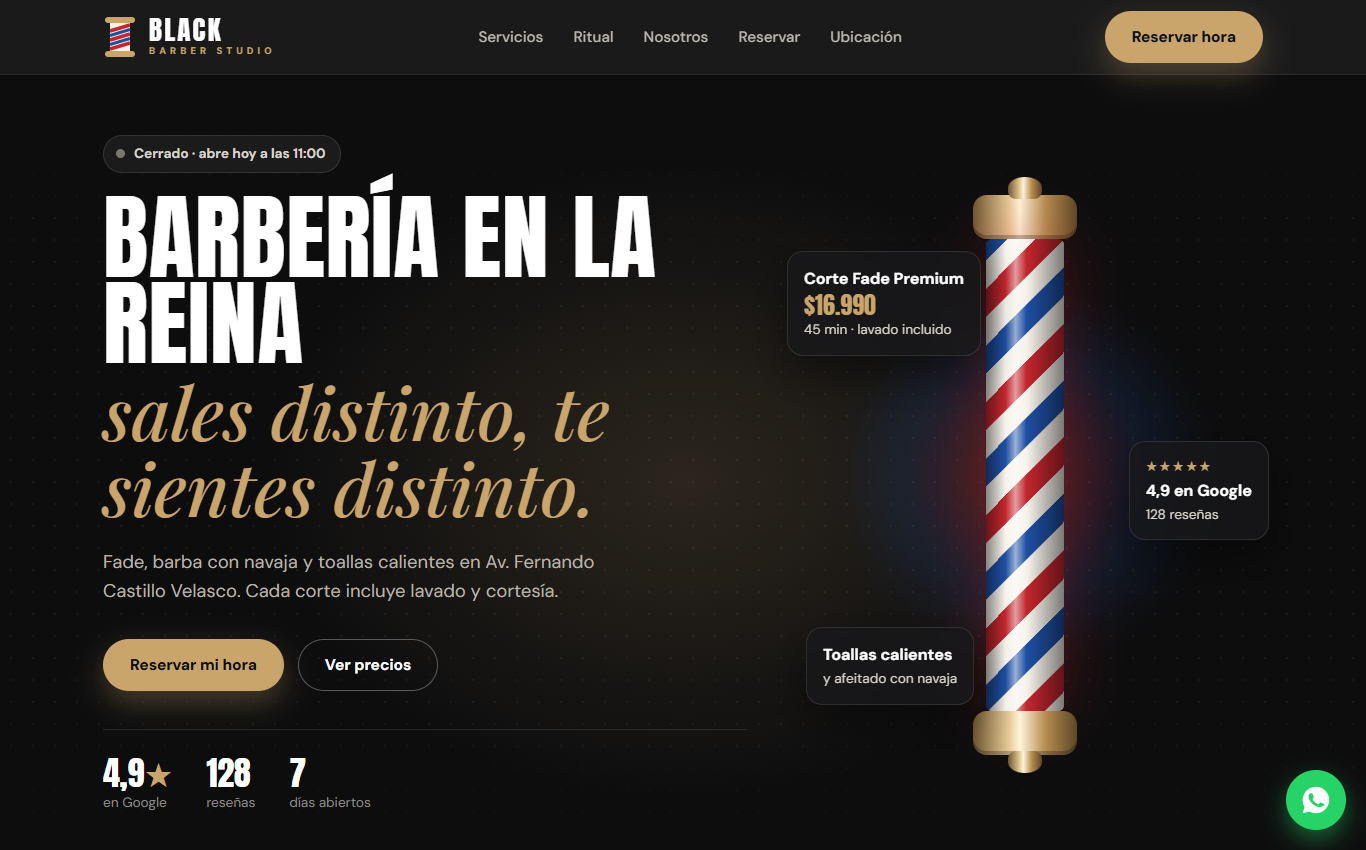
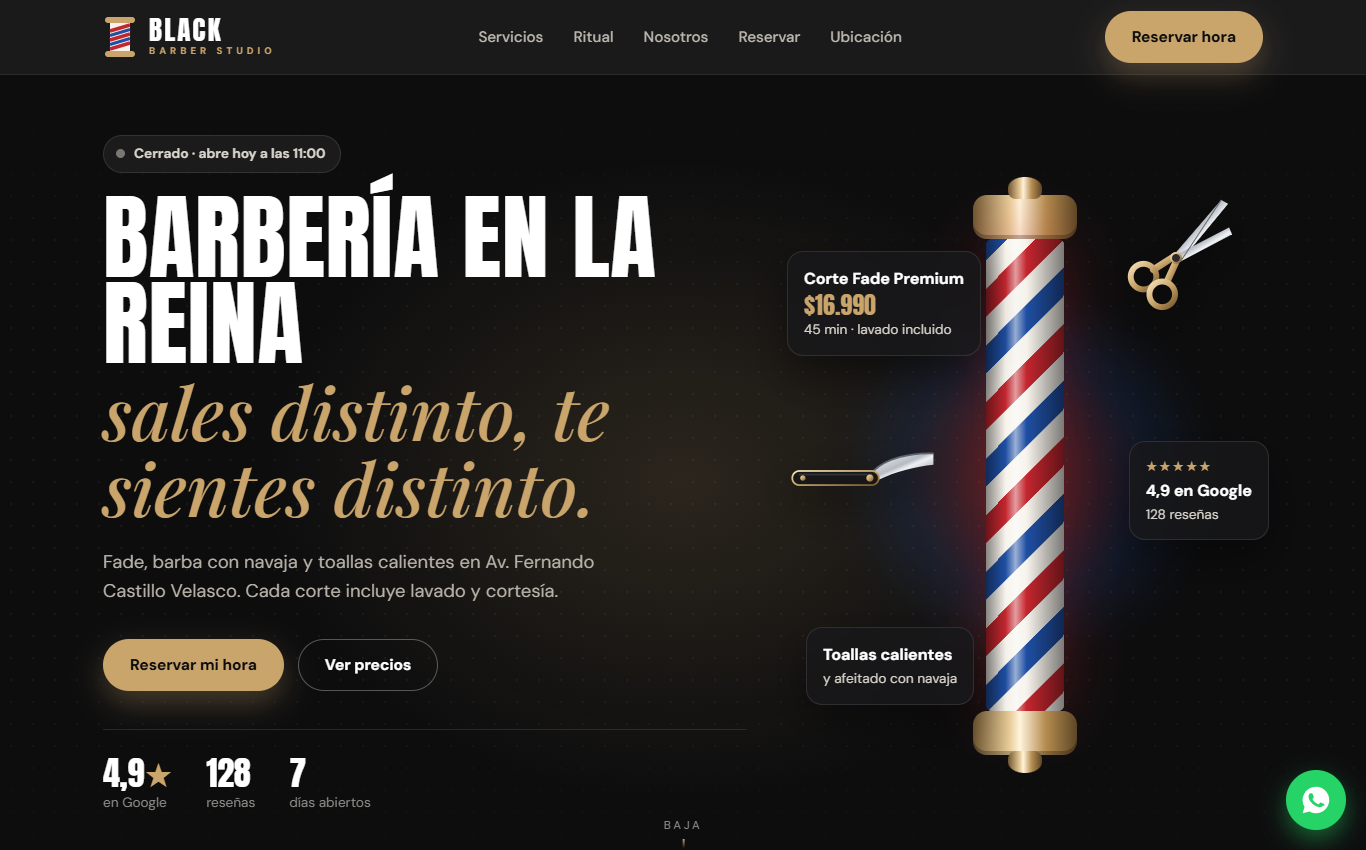
Hacer inmersiva la demo de Black Barber Studio
La portada suma tijeras y navaja flotantes que siguen al mouse, parallax
al bajar, barra de avance y contadores. El ritual de la navaja pasa a ser
una historia que avanza con el scroll, con un dial que cambia de escena.
Se agrega el buscador de servicio en dos preguntas y las tarjetas de la
carta se inclinan en 3D. Se actualizan las capturas del comparador.

diff --git a/demos/black-barber-studio/index.html b/demos/black-barber-studio/index.html
@@ -99,7 +99,7 @@
     .hero-datos { display: flex; gap: 34px; margin-top: 38px; padding-top: 26px; border-top: 1px solid rgba(255,255,255,.1); flex-wrap: wrap; }
     .hero-datos strong { display: block; font-family: "Anton", sans-serif; font-weight: 400; font-size: 2.1rem; line-height: 1; color: #fff; }
     .hero-datos strong b { color: var(--oro); font-weight: 400; }
-    .hero-datos span { color: var(--gris); font-size: .85rem; }
+    .hero-datos > div > span { color: var(--gris); font-size: .85rem; }
 
     /* Poste de barbería */
     .escena { position: relative; height: min(560px, 68vh); display: grid; place-items: center; }
@@ -121,6 +121,44 @@
     .ficha.f3 { bottom: 9%; left: 4%; animation-delay: -4s; }
     .ficha .estrellas { color: var(--oro); letter-spacing: 2px; }
     @keyframes flotar { 50% { transform: translateY(-10px); } }
+
+    /* Inmersivo: barra de avance, parallax y herramientas */
+    .progreso { position: absolute; left: 0; right: 0; bottom: -1px; height: 2px; background: linear-gradient(90deg, var(--oro), var(--oro-claro)); transform-origin: left; transform: scaleX(var(--p, 0)); }
+    .hero .hero-texto.aparece.visto { transform: translateY(calc(var(--sc, 0) * -80px)); opacity: calc(1 - var(--sc, 0) * 1.6); }
+    .escena-mov { position: absolute; inset: 0; display: grid; place-items: center; transform: translateY(calc(var(--sc, 0) * 90px)) scale(calc(1 - var(--sc, 0) * .15)); }
+    .herramienta { position: absolute; z-index: 1; transform: translate(calc((var(--mx) - .5) * var(--prof) * 1px), calc((var(--my) - .5) * var(--prof) * 1px + var(--sc, 0) * var(--prof) * -3px)); transition: transform .25s ease-out; }
+    .herramienta svg { animation: girar-suave 9s ease-in-out infinite; filter: drop-shadow(0 14px 22px rgba(0,0,0,.55)); }
+    .herramienta.tijera { --prof: 46; top: 0; right: 6%; width: 118px; }
+    .herramienta.navaja { --prof: -34; top: 44%; left: 0; width: 150px; }
+    .herramienta.navaja svg { animation-delay: -4.5s; }
+    @keyframes girar-suave { 50% { transform: translateY(-12px) rotate(7deg); } }
+    .scroll-abajo { position: absolute; left: 50%; bottom: 18px; z-index: 2; transform: translateX(-50%); color: var(--gris); font-size: .72rem; letter-spacing: .24em; text-transform: uppercase; display: grid; justify-items: center; gap: 4px; opacity: calc(1 - var(--sc, 0) * 4); }
+    .scroll-abajo::after { content: ""; width: 1.5px; height: 28px; background: linear-gradient(var(--oro), transparent); animation: bajar 1.6s ease-in-out infinite; }
+    @keyframes bajar { 0% { transform: scaleY(0); transform-origin: top; } 50% { transform: scaleY(1); transform-origin: top; } 51% { transform-origin: bottom; } 100% { transform: scaleY(0); transform-origin: bottom; } }
+
+    /* Buscador de servicio */
+    .buscador { background: #fff; }
+    .buscador-grid { display: grid; grid-template-columns: .8fr 1.2fr; gap: 50px; align-items: center; }
+    .buscador-grid > * { min-width: 0; }
+    .buscador .titulo-seccion { margin-bottom: 0; }
+    .buscador-caja { background: var(--crema); border-radius: 24px; padding: 32px; min-height: 320px; }
+    .preg { font-weight: 700; font-size: 1.15rem; margin-bottom: 14px; }
+    .opciones { display: flex; flex-wrap: wrap; gap: 10px; }
+    .opcion { border: 1.5px solid var(--crema-2); background: #fff; color: var(--texto); border-radius: 14px; padding: 14px 18px; font: 700 .97rem "DM Sans", sans-serif; cursor: pointer; transition: transform .15s, border-color .2s, background .2s, color .2s; }
+    .opcion:hover { border-color: var(--texto); transform: translateY(-2px); }
+    .opcion[aria-pressed="true"] { background: var(--negro); border-color: var(--negro); color: #fff; }
+    .pregunta + .pregunta, .resultado { margin-top: 26px; }
+    .pregunta:not([hidden]), .resultado:not([hidden]) { animation: entrar .45s ease backwards; }
+    .resultado { background: var(--negro); color: #fff; border-radius: 18px; padding: 26px; }
+    .resultado .sobre { color: var(--oro); margin-bottom: 8px; }
+    .resultado h3 { font-size: 2rem; margin-bottom: 10px; }
+    .res-datos { display: flex; gap: 14px; align-items: center; flex-wrap: wrap; margin-bottom: 10px; }
+    .res-datos strong { font-family: "Anton", sans-serif; font-weight: 400; font-size: 2rem; line-height: 1; color: var(--oro); }
+    .res-datos span { color: #bdb8b0; }
+    .res-datos .etiq { color: #1f7a45; }
+    .resultado p { color: #bdb8b0; margin-bottom: 18px; }
+    .res-botones { display: flex; gap: 18px; align-items: center; flex-wrap: wrap; }
+    .btn-texto { background: none; border: 0; color: #d9d4cb; font: 700 .92rem "DM Sans", sans-serif; text-decoration: underline; cursor: pointer; }
 
     /* Cinta */
     .cinta { background: var(--oro); color: var(--negro); overflow: hidden; padding: 16px 0; border-block: 1px solid #000; }
@@ -147,8 +185,8 @@
     .filtros button:hover { border-color: var(--texto); }
     .filtros button[aria-pressed="true"] { background: var(--negro); border-color: var(--negro); color: #fff; }
     .carta { display: grid; grid-template-columns: repeat(2, 1fr); gap: 14px; }
-    .item { background: #fff; border-radius: var(--radio); padding: 24px 24px 20px; display: grid; grid-template-columns: 1fr auto; gap: 6px 18px; border: 1px solid transparent; transition: border-color .2s, transform .2s, box-shadow .2s; animation: entrar .45s ease both; }
-    .item:hover { border-color: var(--oro); transform: translateY(-3px); box-shadow: 0 18px 36px rgba(27, 26, 25, .08); }
+    .item { background: #fff; border-radius: var(--radio); padding: 24px 24px 20px; display: grid; grid-template-columns: 1fr auto; gap: 6px 18px; border: 1px solid transparent; transition: border-color .2s, transform .2s, box-shadow .2s; animation: entrar .45s ease backwards; transform: perspective(900px) rotateX(var(--rx, 0deg)) rotateY(var(--ry, 0deg)) translateY(var(--ty, 0px)); }
+    .item:hover { border-color: var(--oro); --ty: -3px; box-shadow: 0 18px 36px rgba(27, 26, 25, .08); }
     @keyframes entrar { from { opacity: 0; transform: translateY(14px); } }
     .item h3 { font-family: "DM Sans", sans-serif; font-weight: 700; text-transform: none; font-size: 1.15rem; letter-spacing: 0; line-height: 1.3; }
     .item .precio { font-family: "Anton", sans-serif; font-size: 1.55rem; line-height: 1; text-align: right; }
@@ -162,6 +200,34 @@
     .agregar:hover::after { transform: translateX(4px); }
 
     /* Ritual */
+    .ritual-historia { display: grid; grid-template-columns: 1fr 1fr; gap: 60px; }
+    .ritual-historia > * { min-width: 0; }
+    .ritual-visual { position: sticky; top: 110px; height: min(470px, 72vh); display: grid; place-items: center; }
+    .dial { position: relative; width: min(430px, 100%); aspect-ratio: 1; border-radius: 50%; background: radial-gradient(circle, #1e1e22 0, #131315 61%, transparent 62%); display: grid; place-items: center; }
+    .dial::before { content: ""; position: absolute; inset: 14%; border-radius: 50%; background: radial-gradient(circle, rgba(201, 164, 107, .14), transparent 70%); }
+    .anillo { position: absolute; inset: 0; width: 100%; height: 100%; transform: rotate(-90deg); }
+    .anillo circle { fill: none; stroke-width: 3; }
+    .anillo-fondo { stroke: rgba(255,255,255,.08); }
+    .anillo-lleno { stroke: var(--oro); stroke-linecap: round; stroke-dasharray: 100; stroke-dashoffset: calc(100 - var(--avance, 0) * 100); }
+    .esc { position: absolute; inset: 20%; opacity: 0; transform: scale(.82) rotate(-8deg); transition: opacity .5s ease, transform .7s cubic-bezier(.2, .8, .2, 1); }
+    .esc.activa { opacity: 1; transform: none; }
+    .esc svg { width: 100%; height: 100%; overflow: visible; }
+    .trazo { fill: none; stroke: var(--oro); stroke-width: 3; stroke-linecap: round; stroke-linejoin: round; }
+    .humo { stroke-dasharray: 70 260; animation: humo 2.6s linear infinite; }
+    @keyframes humo { from { stroke-dashoffset: 80; opacity: 0; } 20% { opacity: 1; } to { stroke-dashoffset: -200; opacity: 0; } }
+    .gota { fill: rgba(201, 164, 107, .25); animation: gota 2.2s ease-in infinite; }
+    @keyframes gota { 0% { transform: translateY(-10px); opacity: 0; } 30% { opacity: 1; } 100% { transform: translateY(26px); opacity: 0; } }
+    .hoja { fill: rgba(232, 204, 152, .14); transform-box: view-box; transform-origin: 132px 124px; }
+    .esc.activa .hoja { animation: abrir 1s cubic-bezier(.2, .8, .2, 1) both; }
+    @keyframes abrir { from { transform: rotate(70deg); } }
+    .dial-num { position: absolute; bottom: 8%; font-family: "Anton", sans-serif; color: var(--oro); letter-spacing: .14em; font-size: 1rem; }
+    .ritual-pasos { list-style: none; }
+    .ritual-pasos .paso { min-height: 50vh; display: flex; flex-direction: column; justify-content: center; background: none; border: 0; border-left: 1px solid rgba(255,255,255,.1); border-radius: 0; padding: 0 0 0 34px; opacity: .28; transition: opacity .45s, border-color .45s; overflow: visible; }
+    .ritual-pasos .paso::before { content: none; }
+    .ritual-pasos .paso.activo { opacity: 1; border-color: var(--oro); }
+    .ritual-pasos .num { font-family: "Anton", sans-serif; font-size: 3.6rem; line-height: 1; color: transparent; -webkit-text-stroke: 1px rgba(201, 164, 107, .75); margin-bottom: 14px; }
+    .ritual-pasos .paso h3 { font-size: 2.3rem; margin-bottom: 10px; }
+    .ritual-pasos .paso p { font-size: 1.06rem; max-width: 420px; }
     .ritual-grid { display: grid; grid-template-columns: repeat(4, 1fr); gap: 16px; counter-reset: paso; }
     .paso { position: relative; background: var(--carbon); border: 1px solid rgba(255,255,255,.07); border-radius: var(--radio); padding: 30px 24px 26px; overflow: hidden; }
     .paso::before { counter-increment: paso; content: "0" counter(paso); font-family: "Anton", sans-serif; font-size: 3.4rem; line-height: 1; color: transparent; -webkit-text-stroke: 1px rgba(201, 164, 107, .6); display: block; margin-bottom: 18px; }
@@ -298,14 +364,20 @@
     .aparece.visto { opacity: 1; transform: none; }
     @media (prefers-reduced-motion: reduce) {
       .aparece { opacity: 1; transform: none; transition: none; }
-      .tubo, .halo, .ficha, .cinta-pista, .vapor i, .pulso, .estado i, .item { animation: none !important; }
+      .tubo, .halo, .ficha, .cinta-pista, .vapor i, .pulso, .estado i, .item, .herramienta svg, .humo, .gota, .hoja, .scroll-abajo::after { animation: none !important; }
       html { scroll-behavior: auto; }
     }
     .captura .aviso-demo, .captura .btn-comparar { display: none; }
-    .captura .tubo, .captura .halo, .captura .ficha, .captura .cinta-pista, .captura .item { animation: none; }
+    .captura .tubo, .captura .halo, .captura .ficha, .captura .cinta-pista, .captura .item, .captura .herramienta svg { animation: none; }
 
     @media (max-width: 1000px) {
-      .hero-grid, .sello-grid, .reservar-grid, .ubicacion-grid { grid-template-columns: 1fr; }
+      .hero-grid, .sello-grid, .reservar-grid, .ubicacion-grid, .buscador-grid, .ritual-historia { grid-template-columns: 1fr; }
+      .buscador-grid { gap: 30px; }
+      .scroll-abajo { display: none; }
+      .ritual-historia { gap: 0; }
+      .ritual-visual { top: 74px; height: 250px; z-index: 2; background: linear-gradient(var(--negro) 85%, transparent); margin-inline: -16px; }
+      .dial { width: 230px; }
+      .ritual-pasos .paso { min-height: 44vh; padding-left: 24px; }
       .hero-grid { min-height: 0; padding: 50px 0 40px; gap: 10px; }
       .escena { height: 380px; }
       .ritual-grid { grid-template-columns: 1fr 1fr; }
@@ -325,7 +397,7 @@
       .hero-botones .btn { flex: 1 1 100%; }
       .hero-datos { gap: 22px; flex-wrap: nowrap; justify-content: space-between; }
       .hero-datos strong { font-size: 1.7rem; }
-      .hero-datos span { font-size: .78rem; }
+      .hero-datos > div > span { font-size: .78rem; }
       .escena { height: 320px; margin-top: 34px; }
       .poste { width: 80px; }
       .tapa { width: 80px; height: 36px; }
@@ -335,6 +407,12 @@
       .ficha .precio { font-size: 1.2rem; }
       .ficha.f2 { right: 0; }
       .ritual-grid, .valores, .mejoras { grid-template-columns: 1fr; }
+      .buscador-caja { padding: 24px 18px; }
+      .opcion { flex: 1 1 100%; text-align: left; }
+      .herramienta.tijera { width: 82px; right: 2%; }
+      .herramienta.navaja { width: 110px; top: 42%; left: 0; }
+      .ritual-pasos .paso h3 { font-size: 1.9rem; }
+      .ritual-pasos .num { font-size: 2.8rem; }
       .item { padding: 20px 18px 16px; }
       .reserva { padding: 22px 18px; }
       .ubicacion-texto { padding: 32px 22px; }
@@ -368,12 +446,13 @@
       <a href="#reservar" class="btn btn-oro">Reservar hora</a>
       <button class="hamburguesa" id="hamburguesa" aria-label="Abrir menú" aria-expanded="false" aria-controls="menu"><span></span><span></span><span></span></button>
     </div>
+    <div class="progreso" id="progreso"></div>
   </header>
 
   <main>
     <section class="hero" id="inicio">
       <div class="contenedor hero-grid">
-        <div class="aparece">
+        <div class="hero-texto aparece">
           <span class="estado" id="estado"><i></i><span>Lun a sáb 11:00 – 20:00</span></span>
           <h1>Barbería en La Reina<em class="fino">sales distinto, te sientes distinto.</em></h1>
           <p class="lead">Fade, barba con navaja y toallas calientes en Av. Fernando Castillo Velasco. Cada corte incluye lavado y cortesía.</p>
@@ -382,19 +461,25 @@
             <a href="#servicios" class="btn btn-borde">Ver precios</a>
           </div>
           <div class="hero-datos">
-            <div><strong>4,9<b>★</b></strong><span>en Google</span></div>
-            <div><strong>128</strong><span>reseñas</span></div>
-            <div><strong>7</strong><span>días abiertos</span></div>
+            <div><strong><span data-contar="4.9" data-dec="1">4,9</span><b>★</b></strong><span>en Google</span></div>
+            <div><strong data-contar="128">128</strong><span>reseñas</span></div>
+            <div><strong data-contar="7">7</strong><span>días abiertos</span></div>
           </div>
         </div>
         <div class="escena aparece" aria-hidden="true">
-          <div class="halo"></div>
-          <div class="poste"><div class="tapa arriba"></div><div class="tubo"></div><div class="tapa abajo"></div></div>
+          <svg width="0" height="0" style="position:absolute" aria-hidden="true"><defs><linearGradient id="g-acero" x1="0" y1="0" x2="1" y2="1"><stop offset="0" stop-color="#fbfbfc"/><stop offset=".45" stop-color="#b6bbc3"/><stop offset=".55" stop-color="#eef0f3"/><stop offset="1" stop-color="#767c85"/></linearGradient><linearGradient id="g-oro" x1="0" y1="0" x2="1" y2="1"><stop offset="0" stop-color="#f6e2b8"/><stop offset=".5" stop-color="#c9a46b"/><stop offset="1" stop-color="#77592a"/></linearGradient></defs></svg>
+          <div class="escena-mov">
+            <div class="halo"></div>
+            <div class="poste"><div class="tapa arriba"></div><div class="tubo"></div><div class="tapa abajo"></div></div>
+          </div>
+          <span class="herramienta tijera"><svg viewBox="0 0 120 120"><path d="M57 63 L107 5 L114 9 L66 67 Z" fill="url(#g-acero)"/><path d="M57 63 L115 33 L118 40 L63 69 Z" fill="url(#g-acero)"/><path d="M107 5 L66 67" stroke="#5f646c" stroke-width="1"/><path d="M60 62 L38 76" stroke="url(#g-oro)" stroke-width="7" stroke-linecap="round"/><path d="M62 66 L52 88" stroke="url(#g-oro)" stroke-width="7" stroke-linecap="round"/><circle cx="28" cy="83" r="13" fill="none" stroke="url(#g-oro)" stroke-width="6"/><circle cx="47" cy="101" r="13" fill="none" stroke="url(#g-oro)" stroke-width="6"/><circle cx="61" cy="64" r="5" fill="#2a2a2e" stroke="url(#g-oro)" stroke-width="2"/></svg></span>
+          <span class="herramienta navaja"><svg viewBox="0 0 170 70"><path d="M98 34 C112 20 140 13 166 14 L166 27 C146 29 122 35 104 44 Z" fill="url(#g-acero)"/><path d="M98 34 C112 20 140 13 166 14" fill="none" stroke="#5f646c" stroke-width="2"/><rect x="6" y="34" width="98" height="16" rx="8" fill="#17171a" stroke="url(#g-oro)" stroke-width="2"/><path d="M14 38 H96" stroke="#fff" stroke-opacity=".12" stroke-width="2" stroke-linecap="round"/><circle cx="18" cy="42" r="3" fill="url(#g-oro)"/><circle cx="94" cy="42" r="4" fill="url(#g-oro)"/></svg></span>
           <div class="ficha f1"><strong>Corte Fade Premium</strong><span class="precio">$16.990</span>45 min · lavado incluido</div>
           <div class="ficha f2"><span class="estrellas">★★★★★</span><strong>4,9 en Google</strong>128 reseñas</div>
           <div class="ficha f3"><strong>Toallas calientes</strong>y afeitado con navaja</div>
         </div>
       </div>
+      <span class="scroll-abajo" aria-hidden="true">Baja</span>
     </section>
 
     <div class="cinta" aria-hidden="true">
@@ -424,6 +509,34 @@
       </div>
     </section>
 
+    <section class="buscador" id="tu-servicio">
+      <div class="contenedor buscador-grid">
+        <div class="aparece">
+          <div class="titulo-seccion">
+            <span class="sobre">¿No sabes qué pedir?</span>
+            <h2>Encuentra tu <em class="fino">servicio</em></h2>
+            <p>Dos preguntas y te decimos cuál es, cuánto dura y cuánto cuesta.</p>
+          </div>
+        </div>
+        <div class="buscador-caja aparece" aria-live="polite">
+          <div class="pregunta">
+            <p class="preg">1. ¿Qué te quieres hacer?</p>
+            <div class="opciones" id="opciones1">
+              <button type="button" class="opcion" data-v="corte" aria-pressed="false">Corte de pelo</button>
+              <button type="button" class="opcion" data-v="barba" aria-pressed="false">Solo barba</button>
+              <button type="button" class="opcion" data-v="ambos" aria-pressed="false">Corte y barba</button>
+              <button type="button" class="opcion" data-v="facial" aria-pressed="false">Corte y limpieza facial</button>
+            </div>
+          </div>
+          <div class="pregunta" id="pregunta2" hidden>
+            <p class="preg" id="preg2"></p>
+            <div class="opciones" id="opciones2"></div>
+          </div>
+          <div class="resultado" id="resultado" hidden></div>
+        </div>
+      </div>
+    </section>
+
     <section class="oscuro" id="ritual">
       <div class="contenedor">
         <div class="titulo-seccion aparece">
@@ -431,11 +544,23 @@
           <h2>El ritual <em class="fino">de la navaja</em></h2>
           <p>Treinta minutos para ti. Así es el afeitado clásico que hacemos en el estudio.</p>
         </div>
-        <div class="ritual-grid">
-          <article class="paso aparece"><span class="vapor" aria-hidden="true"><i></i><i></i><i></i></span><h3>Vapor</h3><p>Abrimos los poros con vapor para que la barba se ablande.</p></article>
-          <article class="paso aparece"><h3>Toallas calientes</h3><p>Relajan la piel y preparan cada pelo para la navaja.</p></article>
-          <article class="paso aparece"><h3>Navaja clásica</h3><p>Afeitado completo y al ras, con el método de siempre.</p></article>
-          <article class="paso aparece"><h3>Loción y masaje</h3><p>Cerramos con productos que calman la piel y un masaje.</p></article>
+        <div class="ritual-historia" id="ritual-historia">
+          <div class="ritual-visual" aria-hidden="true">
+            <div class="dial">
+              <svg class="anillo" viewBox="0 0 300 300"><circle cx="150" cy="150" r="146" class="anillo-fondo"/><circle cx="150" cy="150" r="146" class="anillo-lleno" pathLength="100"/></svg>
+              <div class="esc activa"><svg viewBox="0 0 200 200"><g class="trazo"><path d="M40 118 H160 C160 150 134 168 100 168 C66 168 40 150 40 118 Z"/><path d="M28 118 H172"/><path class="humo" d="M78 104 C66 88 90 78 78 60 C70 48 82 38 78 26"/><path class="humo" d="M100 104 C88 86 112 76 100 56 C92 44 104 34 100 20" style="animation-delay:-.85s"/><path class="humo" d="M122 104 C110 88 134 78 122 60 C114 48 126 38 122 26" style="animation-delay:-1.7s"/></g></svg></div>
+              <div class="esc"><svg viewBox="0 0 200 200"><g class="trazo"><g transform="translate(70 140)"><circle r="27"/><circle r="16"/><path d="M-6 0 A6 6 0 1 1 0 6"/><path d="M0 27 H34"/></g><g transform="translate(130 140)"><circle r="27"/><circle r="16"/><path d="M-6 0 A6 6 0 1 1 0 6"/><path d="M0 27 H34"/></g><g transform="translate(100 92)"><circle r="27"/><circle r="16"/><path d="M-6 0 A6 6 0 1 1 0 6"/></g><path class="humo" d="M88 58 C80 46 96 40 88 26" style="animation-delay:-.4s"/><path class="humo" d="M112 58 C104 46 120 40 112 26" style="animation-delay:-1.5s"/></g></svg></div>
+              <div class="esc"><svg viewBox="0 0 200 200"><g class="trazo"><rect x="18" y="114" width="116" height="22" rx="11"/><circle cx="32" cy="125" r="3"/><circle cx="122" cy="125" r="4"/><g class="hoja"><path d="M126 118 C138 92 160 72 188 66 L188 84 C168 90 150 106 138 128 Z"/><path d="M134 110 C146 92 164 78 188 72" opacity=".5"/></g></g></svg></div>
+              <div class="esc"><svg viewBox="0 0 200 200"><g class="trazo"><path d="M84 62 H116 V78 L126 90 V164 A8 8 0 0 1 118 172 H82 A8 8 0 0 1 74 164 V90 L84 78 Z"/><path d="M90 62 V48 H110 V62"/><path d="M74 120 H126"/><path d="M86 134 H114" opacity=".5"/><path class="gota" d="M152 84 C152 84 142 96 142 102 A10 10 0 0 0 162 102 C162 96 152 84 152 84 Z"/><path class="gota" d="M162 124 C162 124 155 132 155 136 A7 7 0 0 0 169 136 C169 132 162 124 162 124 Z" style="animation-delay:-1.1s"/></g></svg></div>
+              <span class="dial-num" id="dial-num">01 / 04</span>
+            </div>
+          </div>
+          <ol class="ritual-pasos">
+            <li class="paso activo"><span class="num">01</span><h3>Vapor</h3><p>Abrimos los poros con vapor para que la barba se ablande y la navaja corra suave.</p></li>
+            <li class="paso"><span class="num">02</span><h3>Toallas calientes</h3><p>Relajan la piel y preparan cada pelo. Es el momento para desconectarse.</p></li>
+            <li class="paso"><span class="num">03</span><h3>Navaja clásica</h3><p>Afeitado completo y al ras, con el método de siempre y el pulso de quien sabe.</p></li>
+            <li class="paso"><span class="num">04</span><h3>Loción y masaje</h3><p>Cerramos con productos que calman la piel y un masaje. Sales nuevo.</p></li>
+          </ol>
         </div>
         <div class="ritual-pie aparece">
           <p><strong>Afeitado al ras Premium · $17.990.</strong> Con corte incluido, el Corte + Afeitado inglés queda en $28.990.</p>
@@ -461,7 +586,7 @@
           </div>
         </div>
         <div class="resenas aparece">
-          <div class="nota"><strong>4,9</strong><div class="estrellas" aria-hidden="true">★★★★★</div><span>128 reseñas en Google</span></div>
+          <div class="nota"><strong data-contar="4.9" data-dec="1">4,9</strong><div class="estrellas" aria-hidden="true">★★★★★</div><span>128 reseñas en Google</span></div>
           <div>
             <h3>Aquí van sus reseñas reales de Google</h3>
             <p>En la versión final mostramos las opiniones verdaderas de sus clientes, con nombre y fecha. Un 4,9 con 128 reseñas convence más que cualquier texto.</p>
@@ -678,6 +803,82 @@
     }));
     pintarCarta("todos");
 
+    // Tarjetas que se inclinan siguiendo el mouse
+    if (!sinMovimiento && matchMedia("(pointer: fine)").matches) {
+      carta.addEventListener("pointermove", e => {
+        const it = e.target.closest(".item"); if (!it) return;
+        const r = it.getBoundingClientRect();
+        it.style.setProperty("--rx", ((.5 - (e.clientY - r.top) / r.height) * 7).toFixed(2) + "deg");
+        it.style.setProperty("--ry", (((e.clientX - r.left) / r.width - .5) * 7).toFixed(2) + "deg");
+      });
+      carta.addEventListener("pointerout", e => {
+        const it = e.target.closest(".item");
+        if (it && !it.contains(e.relatedTarget)) { it.style.removeProperty("--rx"); it.style.removeProperty("--ry"); }
+      });
+    }
+
+    // ===== Contadores que suben (4,9 · 128 · 7) =====
+    const formatear = (v, dec) => dec ? v.toFixed(dec).replace(".", ",") : String(Math.round(v));
+    const contar = el => {
+      const fin = parseFloat(el.dataset.contar), dec = Number(el.dataset.dec || 0);
+      if (sinMovimiento) { el.textContent = formatear(fin, dec); return; }
+      const inicio = performance.now(), dura = 1500;
+      const paso = ahora => {
+        const t = Math.min((ahora - inicio) / dura, 1);
+        el.textContent = formatear(fin * (1 - Math.pow(1 - t, 3)), dec);
+        if (t < 1) requestAnimationFrame(paso);
+      };
+      requestAnimationFrame(paso);
+    };
+    const numeros = document.querySelectorAll("[data-contar]");
+    if ("IntersectionObserver" in window && !sinMovimiento) {
+      const obsNum = new IntersectionObserver(entradas => entradas.forEach(e => {
+        if (e.isIntersecting) { contar(e.target); obsNum.unobserve(e.target); }
+      }), { threshold: .6 });
+      numeros.forEach(n => { n.textContent = formatear(0, Number(n.dataset.dec || 0)); obsNum.observe(n); });
+    }
+
+    // ===== Encuentra tu servicio =====
+    const ARBOL = {
+      corte: { pregunta: "2. ¿Para quién es?", opciones: [["Adulto, con degradado o clásico", "fade"], ["Niño de hasta 10 años", "classic"], ["Adulto mayor", "classic"]] },
+      barba: { pregunta: "2. ¿Cómo la quieres?", opciones: [["Rápida, solo con máquina", "barba"], ["Perfilada con navaja", "perfilado"], ["Afeitado al ras, con ritual", "afeitado"]] },
+      ambos: { pregunta: "2. ¿Y la barba?", opciones: [["Con máquina", "corte-barba"], ["Perfilada con navaja", "corte-perfilado"], ["Al ras, el ritual completo", "corte-ingles"], ["Soy adulto mayor", "mayor"]] },
+      facial: { pregunta: "2. ¿Qué limpieza buscas?", opciones: [["Superficial, para puntos negros", "facial"], ["Profunda, con exfoliación", "facial-pro"]] }
+    };
+    const opciones1 = document.getElementById("opciones1");
+    const pregunta2 = document.getElementById("pregunta2");
+    const opciones2 = document.getElementById("opciones2");
+    const resultado = document.getElementById("resultado");
+    const marcar = (caja, boton) => caja.querySelectorAll(".opcion").forEach(b => b.setAttribute("aria-pressed", b === boton));
+    opciones1.addEventListener("click", e => {
+      const b = e.target.closest(".opcion"); if (!b) return;
+      marcar(opciones1, b);
+      const rama = ARBOL[b.dataset.v];
+      document.getElementById("preg2").textContent = rama.pregunta;
+      opciones2.innerHTML = rama.opciones.map(([texto, id]) => `<button type="button" class="opcion" data-id="${id}" aria-pressed="false">${texto}</button>`).join("");
+      resultado.hidden = true;
+      pregunta2.hidden = false;
+    });
+    opciones2.addEventListener("click", e => {
+      const b = e.target.closest(".opcion"); if (!b) return;
+      marcar(opciones2, b);
+      const s = porId[b.dataset.id];
+      resultado.innerHTML = `
+        <span class="sobre">Tu servicio</span>
+        <h3>${s.nombre}</h3>
+        <div class="res-datos"><strong>${pesos(s.precio)}</strong><span>${duracion(s.min)}</span>${s.separado ? `<span class="etiq ahorro">Ahorras ${pesos(s.separado - s.precio)}</span>` : ""}</div>
+        <p>${s.desc}</p>
+        <div class="res-botones"><button type="button" class="btn btn-oro" data-elegir="${s.id}">Reservar este servicio</button><button type="button" class="btn-texto" id="reiniciar">Empezar de nuevo</button></div>`;
+      resultado.hidden = false;
+      resultado.style.animation = "none"; void resultado.offsetWidth; resultado.style.animation = "";
+    });
+    resultado.addEventListener("click", e => {
+      if (e.target.id !== "reiniciar") return;
+      marcar(opciones1, null);
+      pregunta2.hidden = true; resultado.hidden = true;
+      opciones1.querySelector(".opcion").focus();
+    });
+
     // ===== Horario y estado "abierto ahora" (hora de Chile) =====
     const HORARIO = { 0: [12, 18], 1: [11, 20], 2: [11, 20], 3: [11, 20], 4: [11, 20], 5: [11, 20], 6: [11, 20] };
     const DIAS = ["Domingo", "Lunes", "Martes", "Miércoles", "Jueves", "Viernes", "Sábado"];
@@ -795,6 +996,35 @@
       });
       hero.addEventListener("pointerleave", () => { hero.style.setProperty("--mx", .5); hero.style.setProperty("--my", .5); });
     }
+
+    // ===== Scroll: barra de avance, portada que se aleja y ritual =====
+    const progreso = document.getElementById("progreso");
+    const historia = document.getElementById("ritual-historia");
+    const listaRitual = historia.querySelector(".ritual-pasos");
+    const pasosRitual = listaRitual.querySelectorAll(".paso");
+    const escenas = historia.querySelectorAll(".esc");
+    const dialNum = document.getElementById("dial-num");
+    let pendiente = false, pasoActual = -1;
+    function alHacerScroll() {
+      pendiente = false;
+      const total = document.documentElement.scrollHeight - innerHeight;
+      progreso.style.setProperty("--p", total > 0 ? (scrollY / total).toFixed(4) : 0);
+      if (!sinMovimiento) hero.style.setProperty("--sc", Math.min(scrollY / hero.offsetHeight, 1).toFixed(3));
+      // El ritual avanza según cuánto de la lista de pasos ya pasó por el centro de la pantalla
+      const r = listaRitual.getBoundingClientRect();
+      const avance = captura ? 0 : Math.max(0, Math.min(1, (innerHeight * .55 - r.top) / r.height));
+      historia.style.setProperty("--avance", avance.toFixed(3));
+      const i = Math.min(pasosRitual.length - 1, Math.floor(avance * pasosRitual.length));
+      if (i !== pasoActual) {
+        pasoActual = i;
+        pasosRitual.forEach((p, k) => p.classList.toggle("activo", k === i));
+        escenas.forEach((esc, k) => esc.classList.toggle("activa", k === i));
+        dialNum.textContent = `0${i + 1} / 0${pasosRitual.length}`;
+      }
+    }
+    addEventListener("scroll", () => { if (!pendiente) { pendiente = true; requestAnimationFrame(alHacerScroll); } }, { passive: true });
+    addEventListener("resize", alHacerScroll);
+    alHacerScroll();
 
     // ===== Comparador antes / después =====
     const modal = document.getElementById("modal-comparar");
